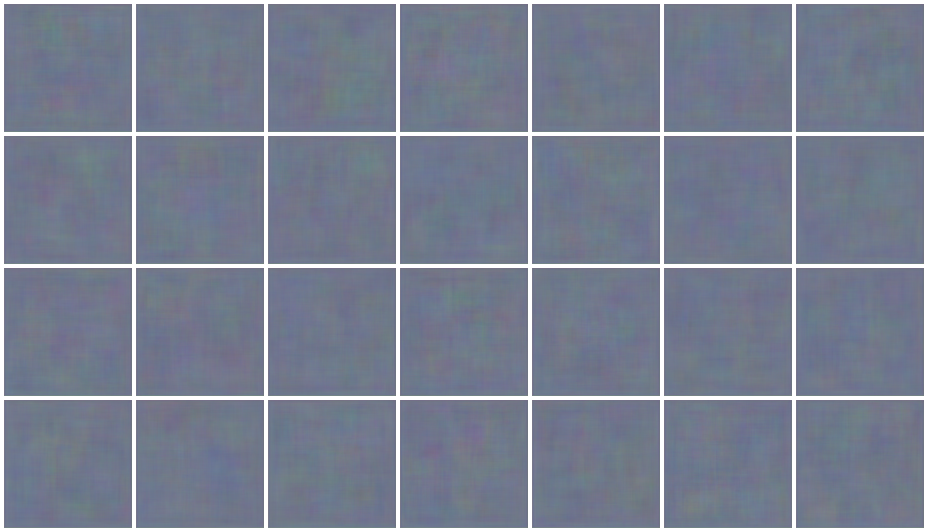
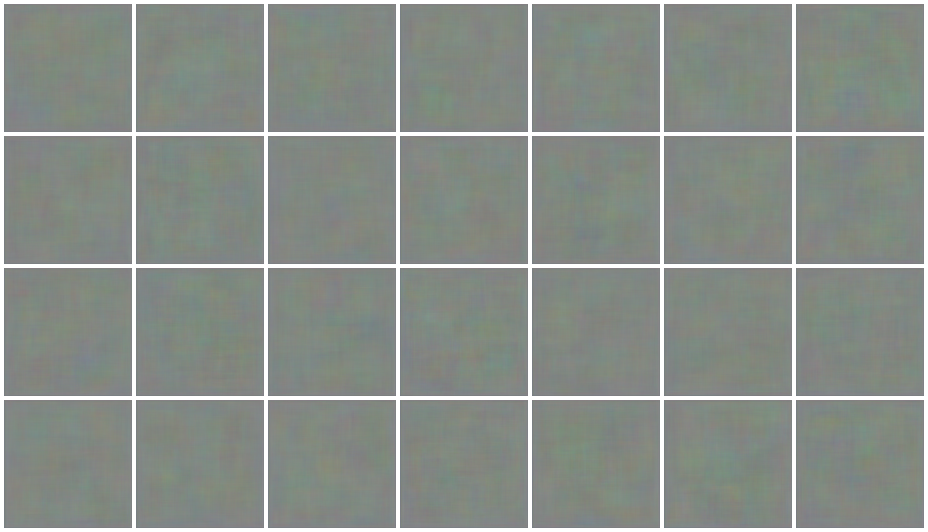
batch size 32

diff --git a/art_gan.py b/art_gan.py
@@ -22,7 +22,7 @@ NOISE_SIZE = 100
 
 # Configuration
 EPOCHS = 10000 # number of iterations
-BATCH_SIZE = 3 # -> default 32
+BATCH_SIZE = 32 # -> default 32
 GENERATE_RES = 3 # add layers to the generator (generate resolution) -> default 3
 IMAGE_SIZE = 128 # rows/cols
 IMAGE_CHANNELS = 3
